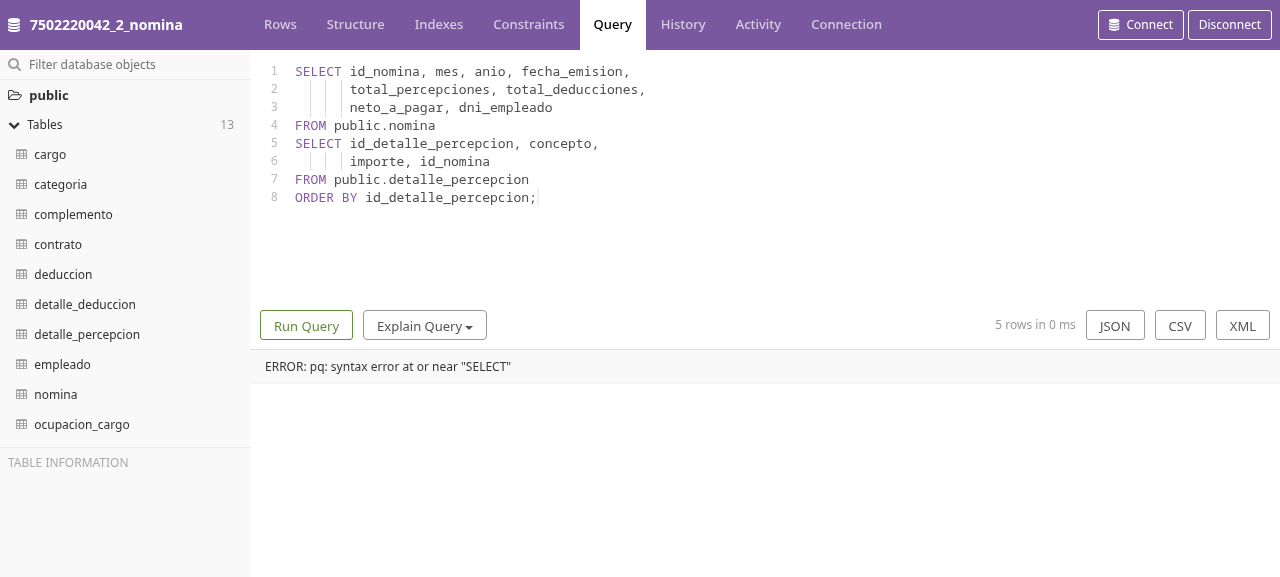
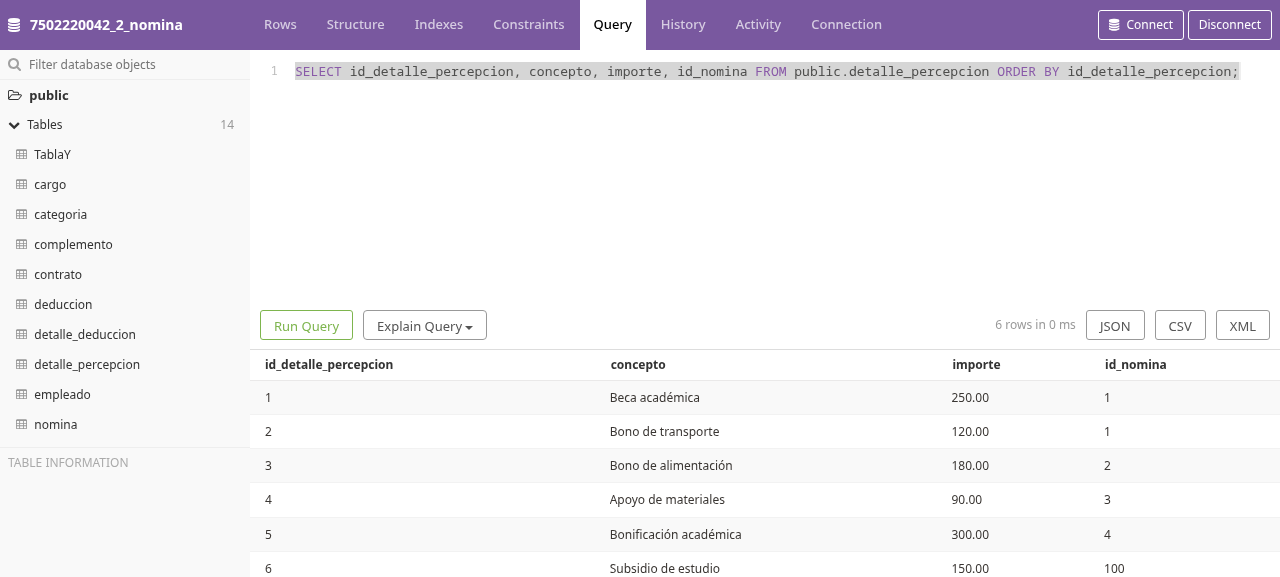
fix: recaptura el detalle del ejercicio 6 y aclara el orden

diff --git a/deliverables/informe-actividad.md b/deliverables/informe-actividad.md
@@ -304,6 +304,8 @@ La captura muestra la hoja de trabajo de SQL Developer y, en `Query Result`, las
 
 Formato por ejercicio: **A)** texto SQL, **B)** explicación, **C)** recorte de pantalla del editor y resultado. **Alcance:** la primera parte se documenta en los tres motores; la segunda parte se resuelve en uno de ellos. Las capturas 1–69 están hechas con un cliente GUI web. Los 69 ejercicios están ejecutados y capturados.
 
+**Nota de orden de ejecución:** el orden real no fue 1→69. Los ejercicios 58–65 se ejecutaron antes que 40–57 y algunas consultas de solo lectura se repitieron al final; por eso la barra lateral de algunas capturas puede mostrar `TablaY` o valores del estado final. Los `UPDATE` conservan su `RETURNING *` con la fila modificada.
+
 ### Ejercicio 1. Insertar en TablaZ al menos un registro usando la forma de inserción completa de SQL
 
 **A. Instrucción SQL:**
